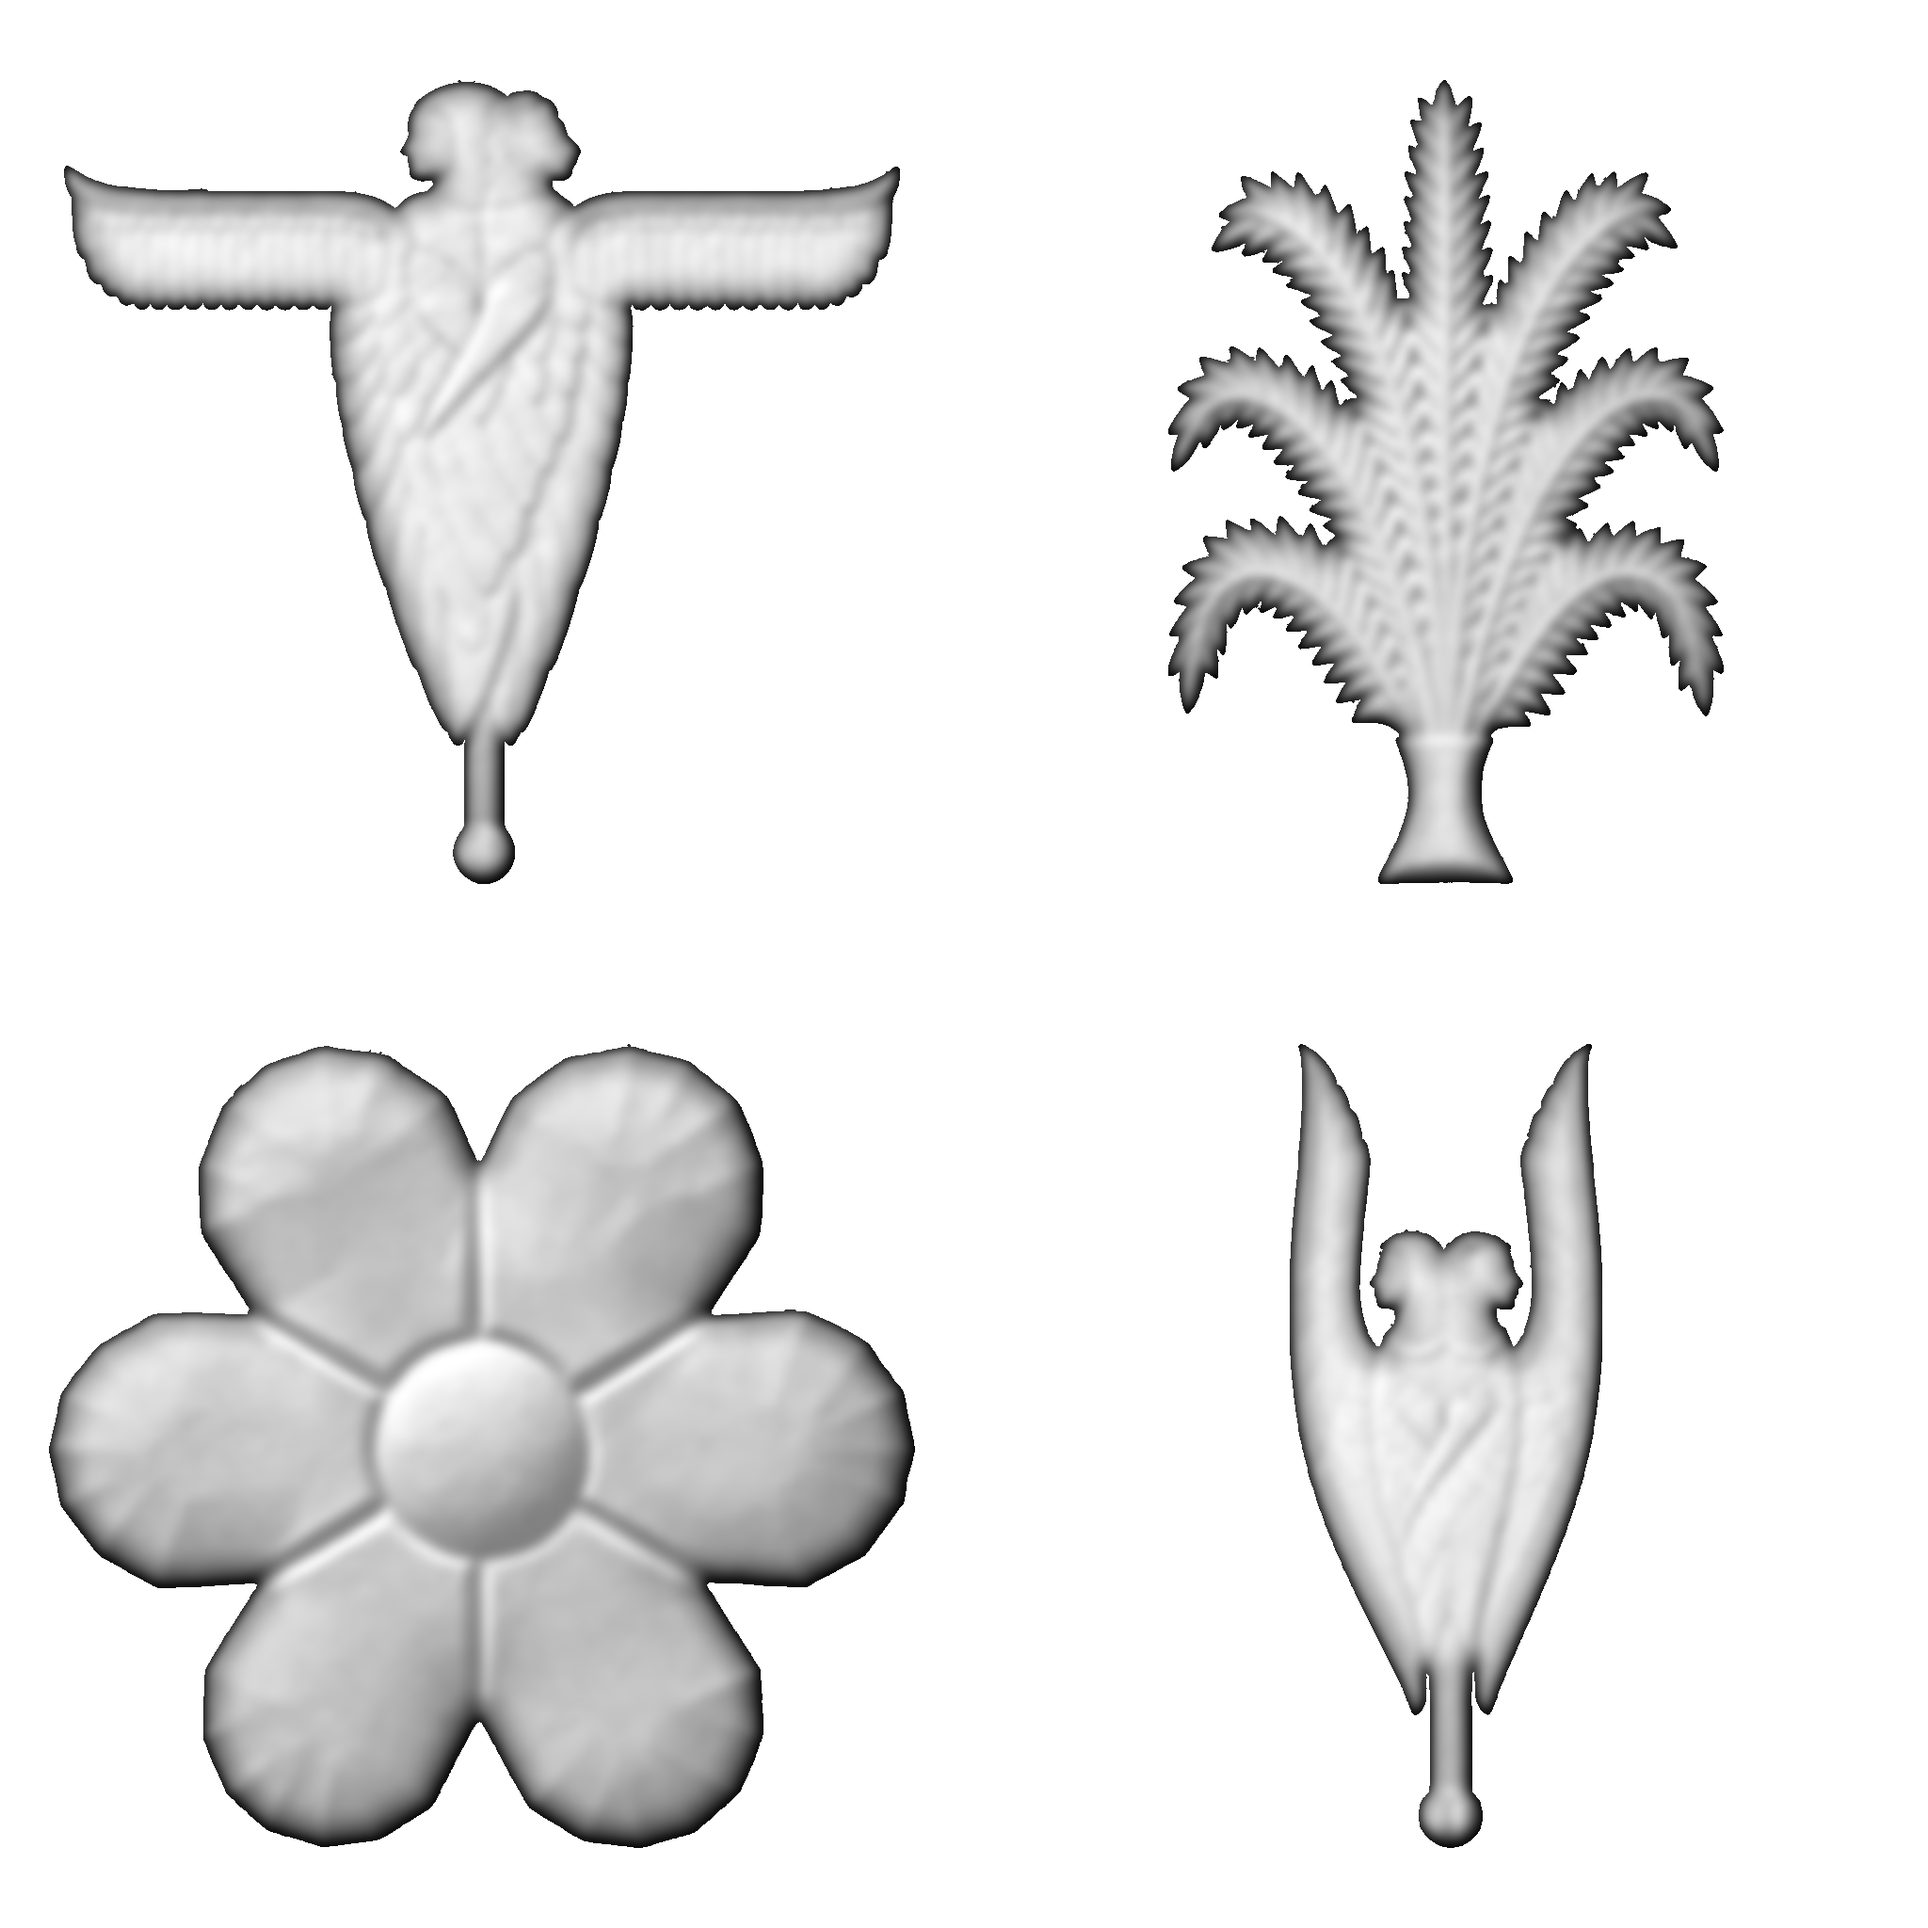
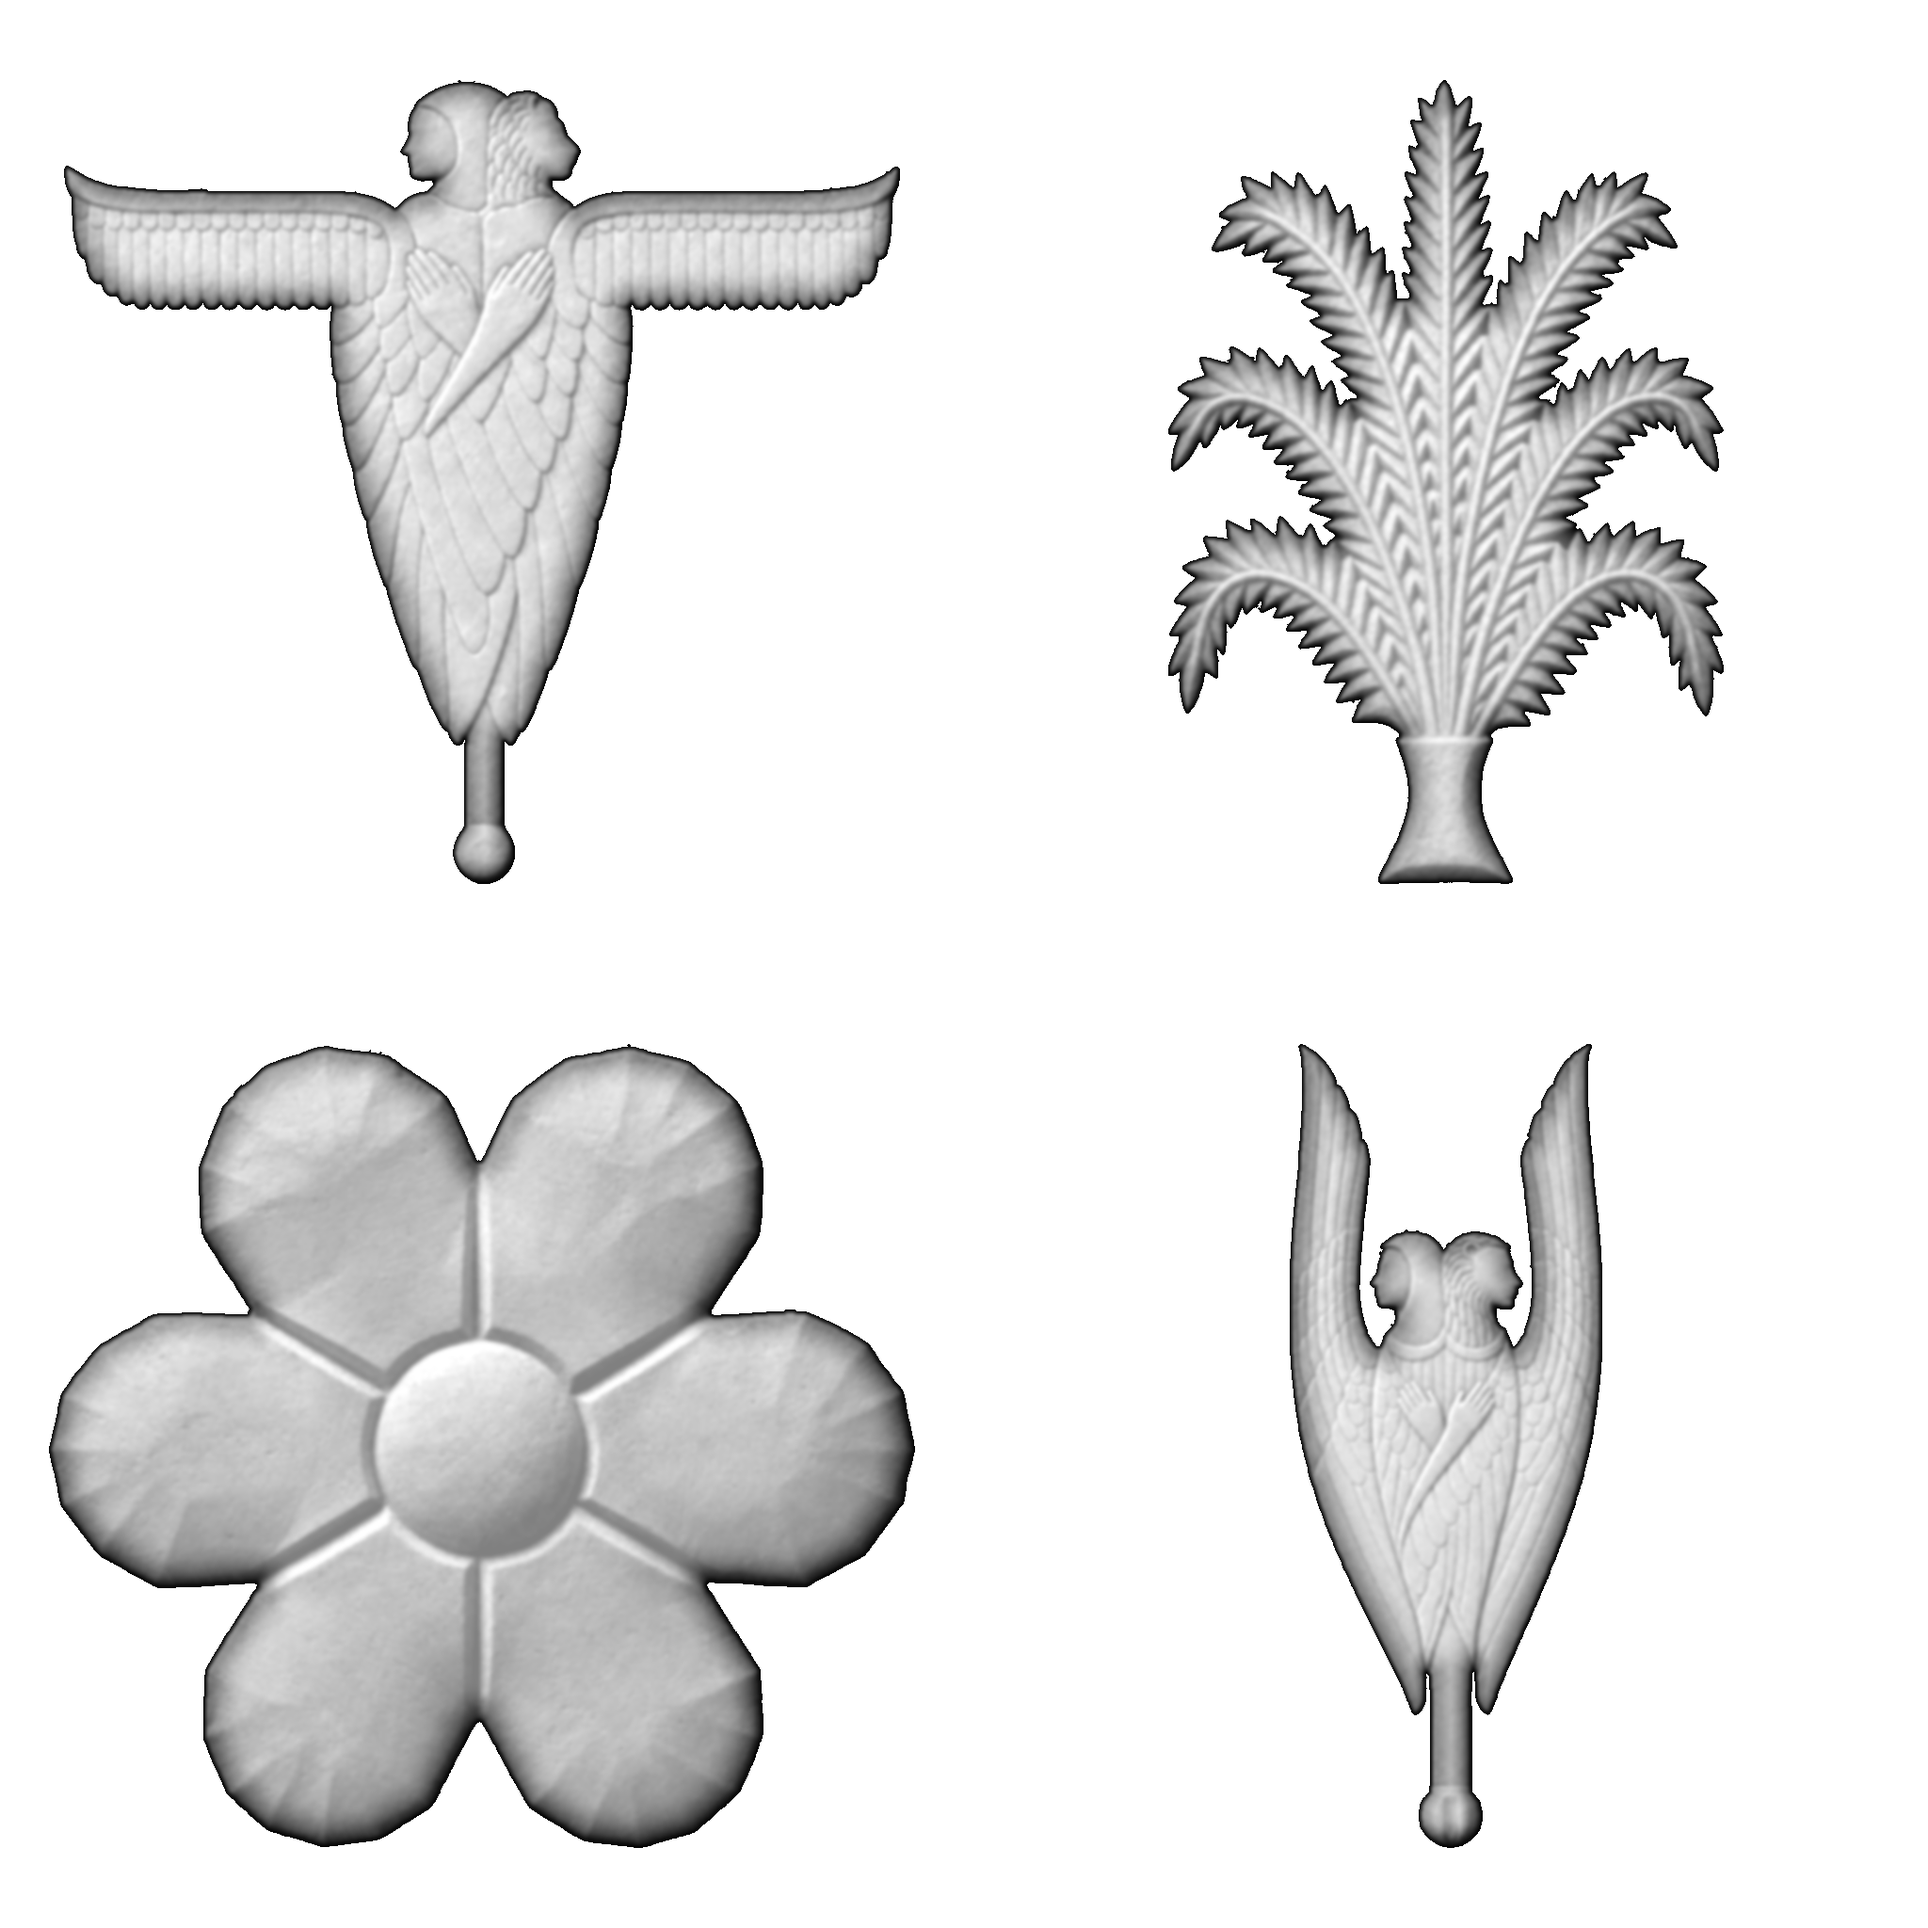
Gravures : le modelé d'une tuile taillée n'est plus flouté de bout en bout — le fondu du bord se fait en fondu, le g...

diff --git a/beit_hamikdash_gravures.py b/beit_hamikdash_gravures.py
@@ -65,7 +65,9 @@ ESQUISSE = "The second image is the approved design sketch: carve the figure in 
 # Le relief d'une tuile taillée : la silhouette bombe sur RONDEUR (en part de la hauteur)
 # depuis son bord, et la luminance, floutée de GRAIN pour ôter le grain du modèle, y
 # ajoute le modelé pour PART_MODELE du tout. Un fond plus noir que SEUIL_FOND est le mur.
-RONDEUR, GRAIN, PART_MODELE, SEUIL_FOND = 0.05, 0.004, 0.5, 0.02
+# GRAIN est au pixel près : un sillon de la taille en fait trois, et floutés de quatre les
+# mains du keruv, ses deux profils et les pennes de sa gaine sortaient en plis sans dessin.
+RONDEUR, GRAIN, PART_MODELE, SEUIL_FOND = 0.05, 0.0015, 0.5, 0.02
 # Le cadre d'une figure debout : un peu plus large qu'elle, du dessous du pied au
 # dessus de la tête, pour que le fondu du bord n'atteigne jamais la tuile voisine.
 CADRE_DEBOUT = (-0.6, -0.1, 0.6, 1.1)
@@ -280,13 +282,18 @@ def relief_taille(nom):
     luminance, masque = cadrer(luminance, figure(luminance > SEUIL_FOND), cadre, TUILE_PX)
     echelle = TUILE_PX / (cadre[2] - cadre[0])
     rayon = max(1, int(round(RONDEUR * echelle)))
-    volume = bombe(distance(masque, rayon) / rayon)
+    dedans = distance(masque, rayon)
+    volume = bombe(dedans / rayon)
     modele = flouter(luminance, max(1, int(round(GRAIN * echelle))))
     # Centiles, pas extrêmes : quelques pixels du bord ou d'un reflet écrasaient tout le modelé.
     bas, haut = np.percentile(modele[masque], (1, 99))
     modele = np.clip((modele - bas) / (haut - bas), 0.0, 1.0)
+    # Le bord se fond parce que le modelé y descend, non parce que la carte entière est floutée :
+    # le bombé y tombe déjà de lui-même, et le flou effaçait tout le modelé pour ce seul ourlet.
+    fondu = max(1, int(round(FONDU * echelle)))
+    modele *= np.clip(dedans / fondu, 0.0, 1.0)
     relief = np.where(masque, (1.0 - PART_MODELE) * volume + PART_MODELE * modele, 0.0)
-    return flouter(relief, max(1, int(round(FONDU * echelle)))).astype(np.float32), masque
+    return flouter(relief, 1).astype(np.float32), masque
 
 
 def graver():
